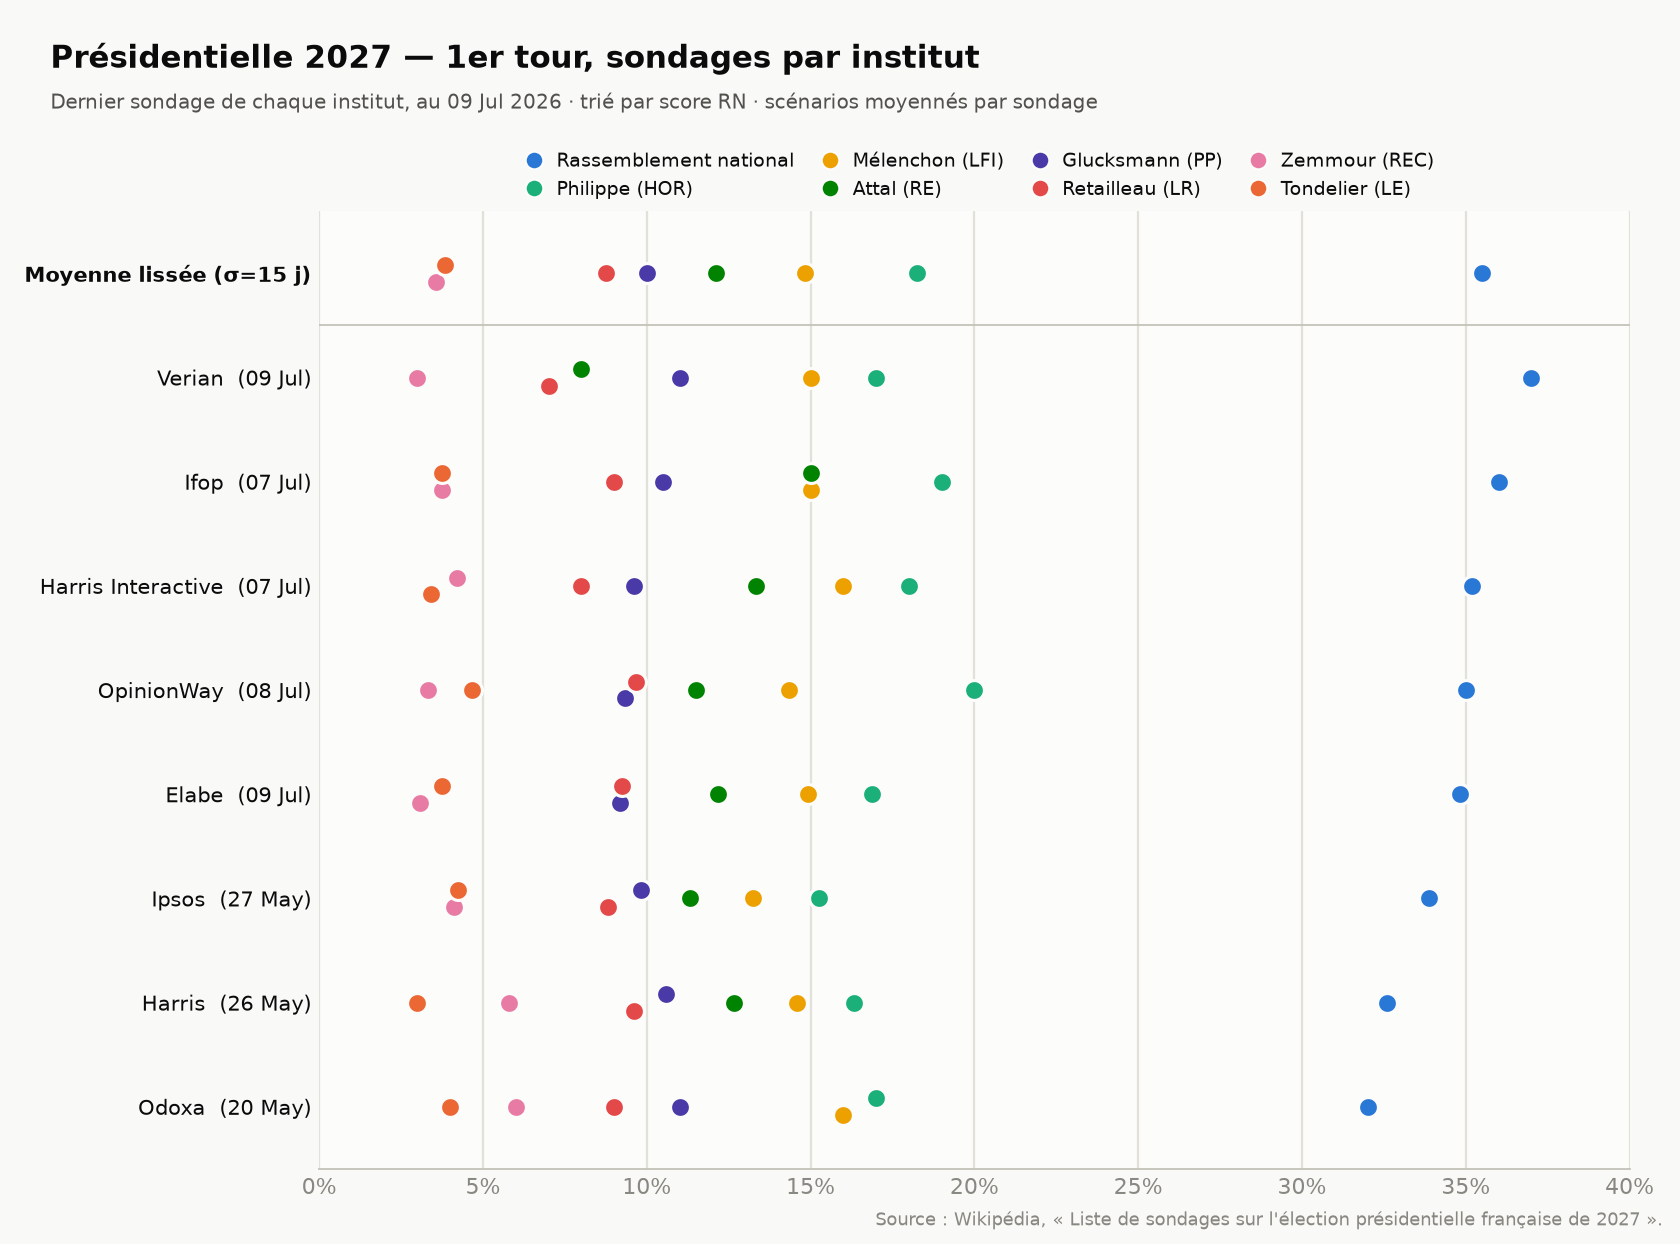
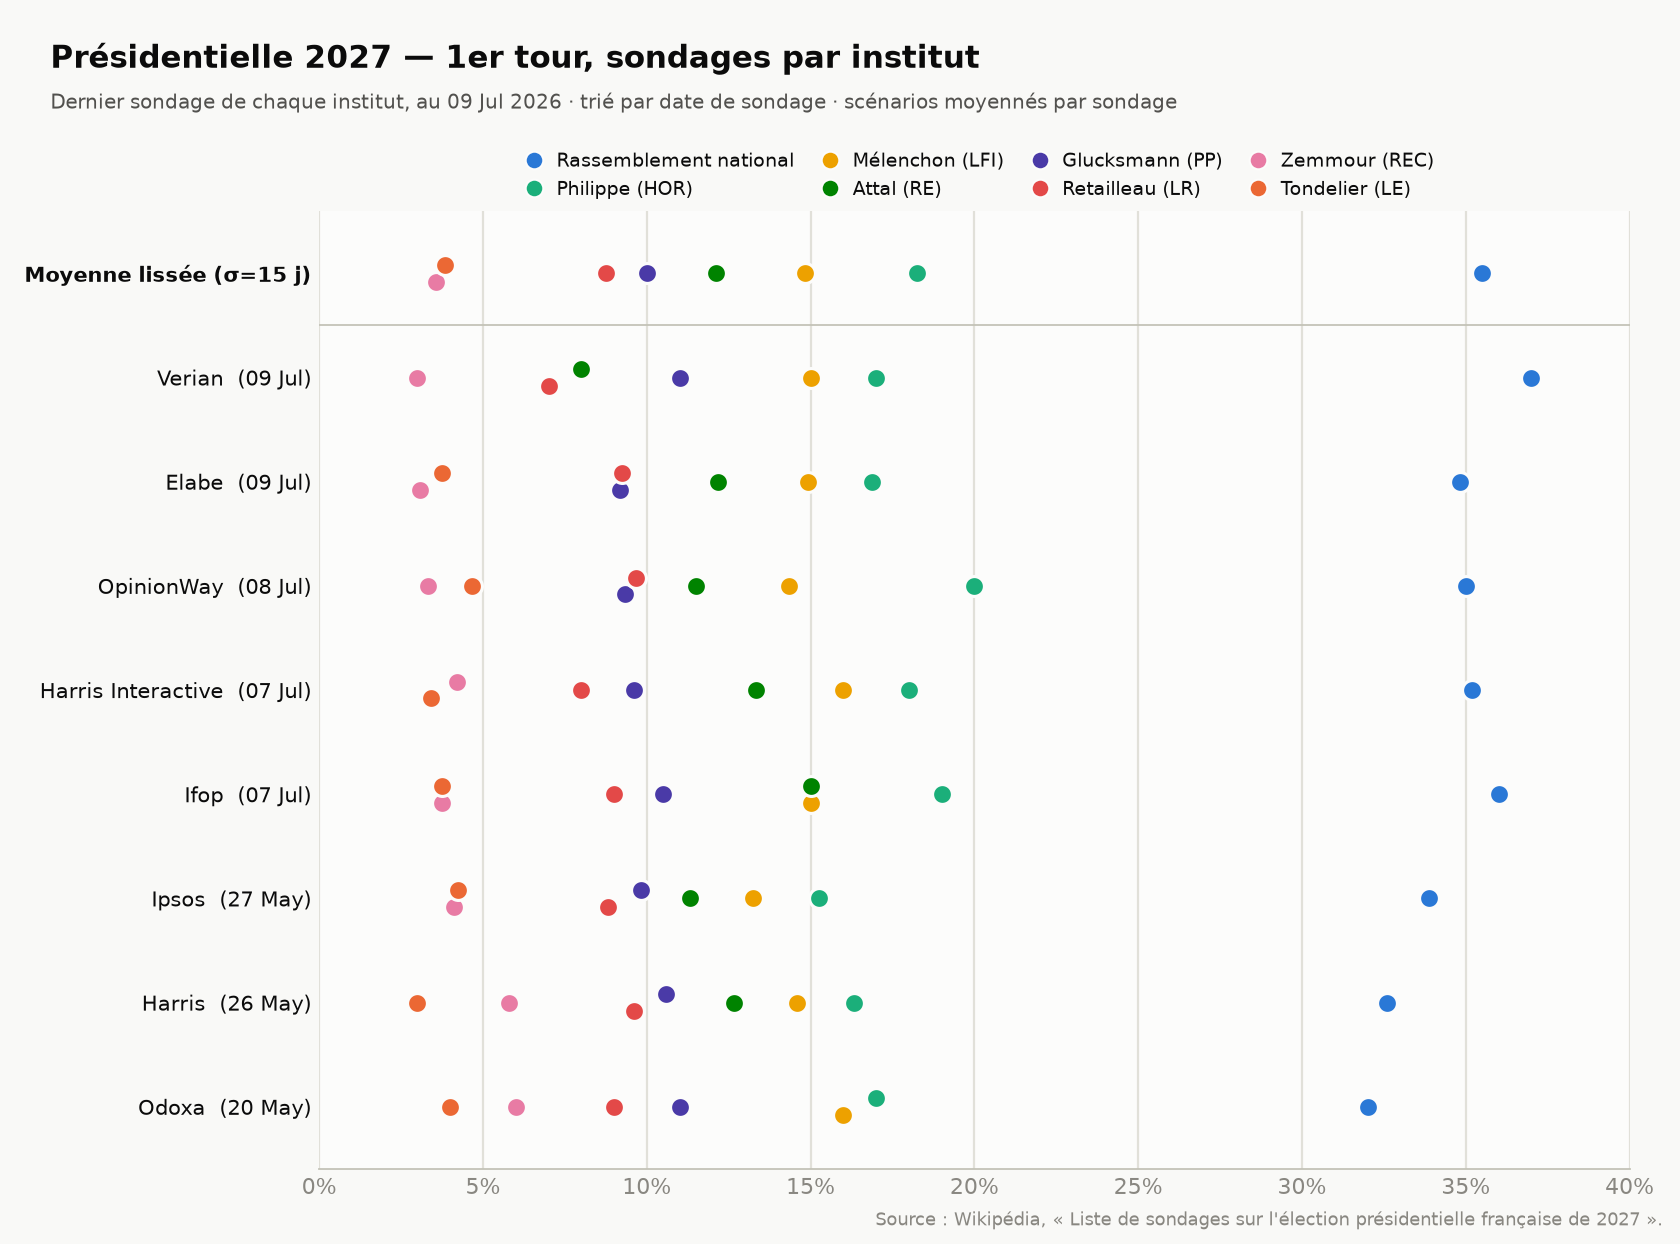
Order the pollster chart by poll date
The "sondages par institut" rows were sorted by RN score; sort them by
the date of each institute's latest poll instead, newest at the top.
Subtitle and README updated to match.

diff --git a/visualize_polls.py b/visualize_polls.py
@@ -271,7 +271,7 @@ def plot_pollsters(records, theme, dark, sigma, out):
         for cand, pts in poll_means.items()
     }
 
-    rows = sorted(latest.items(), key=lambda kv: kv[1].get("RN", 0))
+    rows = sorted(latest.items(), key=lambda kv: kv[1]["date"])
     rows = [(f"{pollster}  ({rec['date']:%d %b})", rec) for pollster, rec in rows]
     rows.append((f"Moyenne lissée (σ={sigma:.0f} j)", avg))
 
@@ -321,7 +321,7 @@ def plot_pollsters(records, theme, dark, sigma, out):
               fontsize=14, color=theme["ink"], fontweight="semibold", va="top")
     fig.text(0.03, 0.925,
               f"Dernier sondage de chaque institut, au {end_date:%d %b %Y} · "
-              "trié par score RN · scénarios moyennés par sondage",
+              "trié par date de sondage · scénarios moyennés par sondage",
               fontsize=9, color=theme["secondary"], va="top")
     fig.text(0.99, 0.015,
               "Source : Wikipédia, « Liste de sondages sur l'élection "

diff --git a/README.md b/README.md
@@ -15,20 +15,26 @@ in `pyproject.toml`):
 
 ```
 # First round: overall trend, recent-period trend, and per-pollster comparison
-uv run python visualize_polls.py            # light theme → france-first_round[_recent|_pollsters].png
-uv run python visualize_polls.py --dark     # dark theme  → …_dark.png
+uv run python visualize_polls.py            # france-first_round[_recent|_pollsters].png
 uv run python visualize_polls.py --sigma 10 -o custom.png
 uv run python visualize_polls.py --recent-days 30
 
 # Second round: runoff trend by challenger, and latest-poll-per-matchup snapshot
-uv run python visualize_second_round.py            # light theme → france-second_round_trend.png, …_snapshot.png
-uv run python visualize_second_round.py --dark      # dark theme  → …_dark.png
+uv run python visualize_second_round.py            # france-second_round_trend.png, …_snapshot.png
 ```
+
+Both scripts still take `--dark`, but nothing uses its output any more: the
+poll site renders each chart inside its own themed viewer page rather than
+serving a separately generated dark PNG, so as of 2026-07-29 the five
+`…_dark.png` files are gone from this repo and from the server, and the daily
+update no longer regenerates them. `--dark` is kept for one-off local use; if
+you run it, do not commit or deploy the result.
 
 First-round scenarios are averaged within each poll, then each candidate's
 series is smoothed with a Gaussian kernel over time (`--sigma` days, default
 15). Faint dots show raw per-scenario values. The pollster-comparison chart
-shows each institute's latest poll plus a smoothed-average row. The
+shows each institute's latest poll, ordered by poll date, plus a
+smoothed-average row. The
 second-round trend chart plots each challenger's own share against the RN
 candidate (Bardella or Le Pen) over time; the snapshot chart shows the most
 recent poll for each hypothetical match-up.
